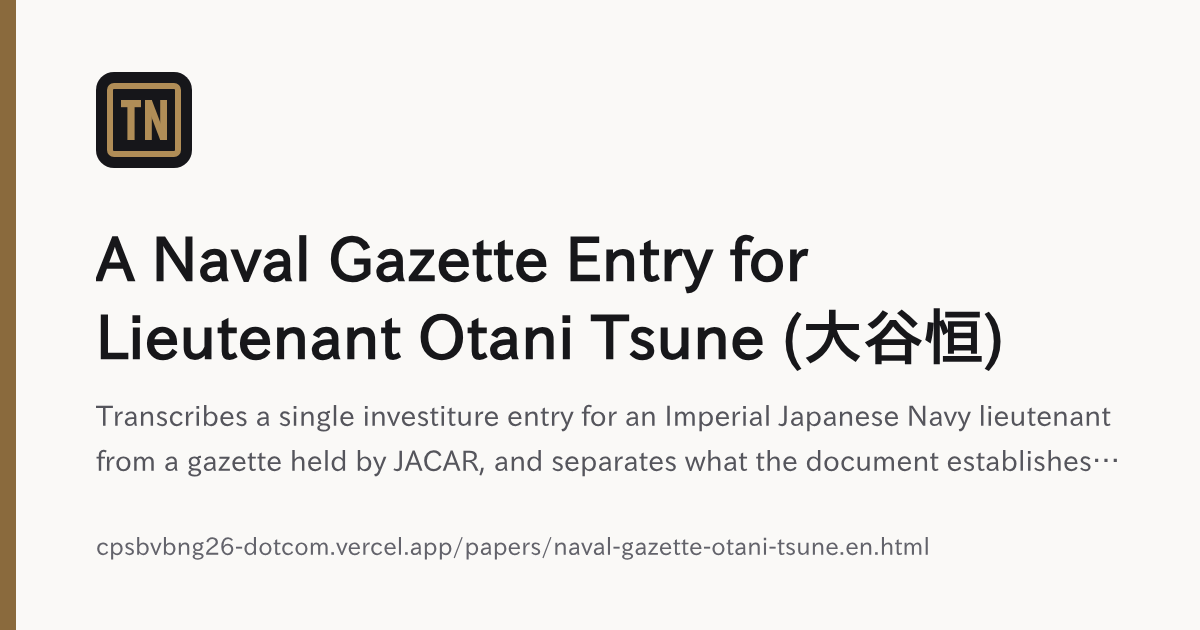
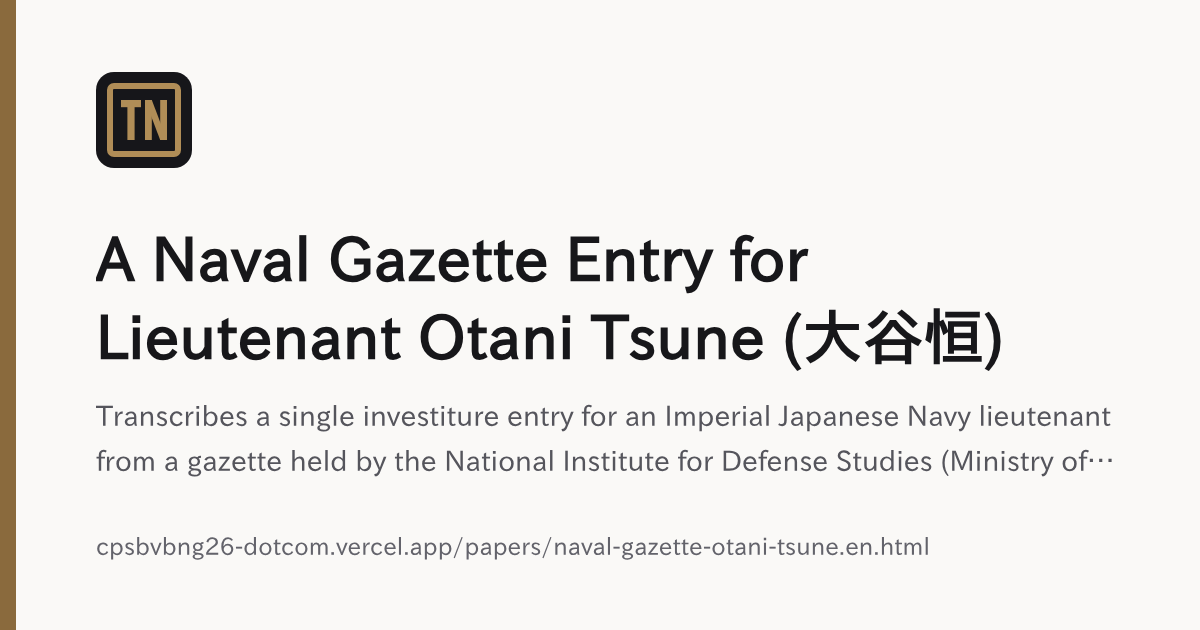
生成物：トップの頁、海軍公報の論文の頁二頁、ノートの英語の目次、共有カード一枚を作り直す
Claude-Session: https://claude.ai/code/session_01QqWsm63g52W27jU94E5dfL

Changed region(s): [[0.3083, 0.6937, 0.925, 0.754]]

diff --git a/index.html b/index.html
@@ -958,7 +958,7 @@ footer { border-top: 1px solid var(--line); margin-top: 2rem; }
       <p class="profile-now profile-cred">edX の修了証を、技術の目安として先に書きます。どれも入門の課程です。CS50x（HarvardX）は計算機科学の入門です。C・Python・SQL・Web の課題を全部出し、最終課題を作って修了しました。プログラムを一から書いて動かせる、という目安です。CS50AI（HarvardX）は Python による人工知能の入門です。探索・論理推論・確率・最適化・機械学習・ニューラルネットワーク・言語処理を、課題として実装しました。古典的な手法を自分で組める、という目安です。CC0201EN（IBM）は、コンテナ・Kubernetes・OpenShift の入門です。コンテナを作って動かす演習を含みます。ER22.1x（HarvardX）は政治哲学の講義 Justice で、技術の修了証ではありません。受講の規約も書いておきます。CS50 の二講座は、答えやコードを示したり補ったりする外部の生成系の道具（ChatGPT・Claude・Copilot・Gemini など）を使うことを、学業上の不正として禁じています。認められているのは、CS50 自身の道具（CS50 Duck）だけです。edX の Honor Code は、協働が明示的に認められていない限り、試験と課題を自分で仕上げることを求めています。規約を守ったことを、こちらから証明する手段はありません。ただし規約の上では、守ったものとして上の修了証が発行されています。</p>
       <p class="profile-now">ZEN大学 知能情報社会学部 知能情報社会学科に在籍しています（秋入学一期生）。文理を横断する課程です。あわせて、2024 年 10 月頃から、個人事業主として働いています。</p>
       <p class="profile-now profile-study">大学では主に<strong>哲学</strong>と<strong>実務</strong>を学んでいます。<strong>数学</strong>も履修できます。修得した科目は <a href="./cv.html">CV</a> に並べてあります。この場所に置いているのは、コンピュータサイエンスと人工知能の学習です。</p>
-      <p class="profile-core"><b>ここにあるものの根幹は、独学と、言語モデルを使って進めたことです。</b>指導教員も共同研究者もいません。<b>肩書きは名乗っていません。</b>一学部生です。<b>ただし、大学の単位は独学ではありません。</b>授業を受け、課題を出し、評価を受けて得たものです。下の表に並んでいるものがそれで、<b>独学と言語モデルの話は、その外にあります</b> —— 哲学の三篇と、<b>Trinity-Infinity の三篇</b>と、ここに置いた道具と記録のことです。</p><p class="profile-core"><b>この場所そのものは、Anthropic の Claude を使って作っています。</b>頁の生成、検査の道具、記録 —— git の履歴に <code translate="no" class="notranslate">Co-Authored-By: Claude Opus 5</code> が並んでいます。<b>ただし、哲学三篇の英訳に何を使ったかは特定できません</b> —— 記録が残っておらず、著者の記憶でも定まりません（三篇の正誤表 <a href="https://github.com/cpsbvbng26-dotcom/autonomy-and-self-cultivation/blob/main/ERRATA.md" target="_blank" rel="noopener">E5</a>）。<b>Trinity-Infinity の側は特定できます</b> —— 2025 年の初稿は言語モデル（ChatGPT / OpenAI）が生成し、2026 年の改訂は Claude Code（Anthropic）で書いています。哲学三篇の改訂と起草に Claude（Anthropic）を使ったことは、三篇それぞれの開示文にあります。<b>道具の名前を一つに絞れないのは、哲学三篇の英訳だけです。</b></p><p class="profile-core"><b>場の明文は、取り寄せた頁にある分を、場の言葉のまま置きます。</b><b>SSRN</b> —— 論文が学術的な内容の基準を満たすかどうかを、SSRN が決めます（<code translate="no" class="notranslate">SSRN must determine if a paper meets the criteria of scholarly content</code>）。SSRN は、プレプリントを査読しません（<code translate="no" class="notranslate">SSRN does not peer review preprints</code>）。非学術的なものは、投稿の要件を満たしません（<code translate="no" class="notranslate">Non-scholarly content does not meet our submission requirements</code>）。題・執筆日・要旨・全著者の情報が要ります。<b>PhilArchive</b> —— 学術哲学のすべての領域で、論文・書籍・学位論文を受け付けます（<code translate="no" class="notranslate">works of all types (articles, books, dissertations) in all areas of academic philosophy</code>）。哲学でないものは、<b>学際的で哲学者に明らかな関心がある場合に受け付けます</b>（<code translate="no" class="notranslate">cross-disciplinary and of clear interest to philosophers</code>）。投稿するすべての本と論文に、専門職の水準を求めています（<code translate="no" class="notranslate">All books and papers submitted should be of professional quality</code>）。脅迫・嫌がらせ、無断の個人情報、なりすましは禁じられています。<b>載る前に誰が何を確かめるかは、PhilArchive の取り寄せた頁のどれにも書かれていません。</b></p><p class="profile-core"><b>そこから言えることは、ここまでです。</b>独学と言語モデルで書いた哲学の二篇が、SSRN に載りました。SSRN は、学術的な内容の基準を満たすかを決めると書いています。載ったことは、その基準で落とされなかったということです。<b>誰がどこまで読んだかは、場の文からは分かりません。</b><b>そして、三篇目は落とされました。</b>断片主義的精神的個人主義（Fragmentarian Spiritual Individualism、<code translate="no" class="notranslate">10.5281/zenodo.22064241</code>）は SSRN に出して弾かれています。<b>この門は、実際に落とします。</b><b>どの分野に置いたかも決まっています</b> —— <b>通った哲学二篇</b>は哲学研究網（Philosophy Research Network）の<b>大陸哲学</b>（<code translate="no" class="notranslate">Continental Philosophy</code>）、Trinity-Infinity Series II は数学研究網（Mathematics Research Network）の<b>数値解析</b>（<code translate="no" class="notranslate">Numerical Analysis</code>）です。海軍公報の史料ノートも SSRN に受け付けられ、歴史研究網（History Research Network）の<b>東アジア史</b>（<code translate="no" class="notranslate">East Asian History</code>）に置かれています（SSRN 10.2139/ssrn.7449338）。科学哲学の論文 Machine-mediated Rediscovery も、SSRN に受け付けられています（SSRN 10.2139/ssrn.7537983）。SSRN では区分がそのまま eJournal になっています。<b>弾かれた一篇も同じ大陸哲学に出しています。受け付けられていないので、どの eJournal にも載っていません。</b><b>PhilArchive には三篇とも載っています。うち二篇は載る前に門が下り、一篇には下りていません。</b>門が何を確かめたかは、取り寄せた PhilArchive の頁のどれにも書かれていません。専門職の水準（<code translate="no" class="notranslate">professional quality</code>）は投稿する側への求めです。載ったことを、その水準の判定とは読みません。<b>数学の側でも同じことが起きています。Trinity-Infinity Series II が、SSRN に載りました</b>（SSRN <code translate="no" class="notranslate">10.2139/ssrn.7446961</code>）。<b>学術的な内容の基準で落とされなかった一篇です。</b><b>Series I の改訂版と Series III は、出して落とされました。</b>2026-09-18 に SSRN から二通が届いています。文面は定型で、<b>「投稿の要件を満たさないか、この場の範囲外である」</b>と書かれており、<b>どちらなのかは示されていません。</b><b>ここで確かなことが一つあります</b> —— 同じ数学研究網に Series II が載っているのだから、<b>数学が範囲外だということにはなりません。</b>落ちた二篇と通った一篇の違いは、まだ分かっていません。<b>つまり、この門は同じ系列の中でも選り分けます。</b>出した八篇のうち、受け付けられたのは五篇、落とされたのは三篇です。</p><p class="profile-core"><b>そこから導けないものも、はっきりしています。</b><b>論証が正しいことは、どちらの門も見ていません。</b>通ったのは受け付けの門であって査読ではなく、PhilArchive については三篇のうち二篇は門が下りており、一篇は下りていません。Series II も同じで、<b>SSRN が書いている基準は、学術的な内容かどうかと、要る情報が揃っているかです。</b><b>落とされたことも、通ったことの裏返しでしかありません。</b>弾かれた三篇について言えるのは、SSRN が受け付けなかったということだけで、<b>論証が誤っていると判定されたわけではありません。</b><b>場の側がそう書いています</b> —— 数学の二篇に届いた文面は、<code translate="no" class="notranslate">this decision does not reflect a judgement on the merits of your work</code> と述べています。断章論については理由が示されていません。数学の二篇には定型の文面が届きましたが、要件と範囲のどちらなのかは示されていません。<b>こちらも確かめていません。</b><b>明文は上に、場の側の言葉のまま置いてあります。</b></p><p class="profile-core"><b>数学の側について、一つ確定したことがあります。</b>Trinity-Infinity の三篇が扱う作用素 <code translate="no" class="notranslate">x ← DQx + (I−D)p</code> は、<b>既知の模型でした</b> —— 社会学の <b>Friedkin–Johnsen モデル</b>（1990 / 1999）です。意見動学の文献は、この領域で最も影響力のある模型として <b>DeGroot と Friedkin–Johnsen の二つを並べて挙げる</b>のが通例です。Friedkin–Johnsen モデルは 2011 年に Cambridge から単著の理論書になり、2016 年に <i>Science</i> に載り、いまは制御理論と計算機科学でも使われています。<b>脚注ではなく、その分野の二本柱の一本でした。</b>そして Series I は、自分の第 1 節で <code translate="no" class="notranslate">consensus dynamics</code> と名指ししたうえで、その分野を一件も引いていません（<a href="https://github.com/cpsbvbng26-dotcom/trinity-infinity/blob/main/ERRATA.md" target="_blank" rel="noopener">ERRATA の E8</a>、重大度・高）。<b>ただし寸法は正確に書きます。</b>この作用素は影響行列 <code translate="no" class="notranslate">W</code> を巡回置換に限った特殊例で、それは<b>各主体がちょうど一人の隣人だけを聴く輪</b>です。誰が誰にどれだけ影響するかという一般の <code translate="no" class="notranslate">W</code> —— Friedkin–Johnsen を社会学たらしめている当のもの —— を全部落としています。<b>再発見したのは、一級の社会学モデルの、社会学を抜いた数学的な躯体と、要の一項です。</b></p><p class="profile-core"><b>その先で、一つ足したものがあります。</b>これは学部一年次の成果（Trinity-Infinity）の続きです。2026-10-04 に、同じ作用素が繰り返しゲームの均衡を決めることを、ノートに書きました（<a href="https://github.com/cpsbvbng26-dotcom/trinity-operator/tree/main/games" target="_blank" rel="noopener">trinity-operator の games</a>）。協力が巡回する道の継続価値は、この作用素の不動点になります。式そのものは教科書の公式です。そこから閾値を証明しました。三人で裏切り役を回す道は、割引因子が <code translate="no" class="notranslate">1/φ</code> 以上のときに限って均衡になります。Series II の例 <code translate="no" class="notranslate">(2,4,2)</code> が、どの割引因子でも持続しないことも示しました。<b>ただし、命題は文献と照合していません。</b>既知の演習である可能性があり、照合するまで新しい結果とは数えません。乱数を使わないときに持続できる利得の集合が穴だらけになる、という<b>予想</b>も置きました。名前は<b>黄金比の窓の予想</b>（Golden-window conjecture）で、窓は割引因子の <code translate="no" class="notranslate">1/φ</code> から <code translate="no" class="notranslate">2/3</code> までを指します。人名ではなく、中身を表す名です。予想と、窓の外で証明したことは、<a href="./notes/golden-window.html">独立した頁</a>にまとめました。予想には証明が無く、根拠は数値だけです。<b>既知の模型と、証明した命題と、予想を、分けて書いています。</b></p><p class="profile-core"><b>ここまでのプレプリントは、趣味として書いたものです。</b>どれも査読を受けていません。<b>これは謙遜ではありません。</b>上に並べたことからの帰結です —— 受け付けの門は通りましたが、論証を見た者はいません。数学の三篇は既知の模型の特殊例で、分野への寄与はゼロです。<b>趣味の研究は、学部一年で卒業しました。</b>これからのものは、趣味と呼ばずに済む形で書きます。</p><p class="profile-core"><b>edX と東北大学 MOOC の修了証も、学部一年の前半で得ています。</b>七件あります。<b>そして、次の四つは学部一年時の実績です。</b>八篇のプレプリント、Zenodo の 15 件、十のリポジトリ、修了証とオープンバッジの七件。「30歳魔法使い」都市伝説の構造分析（2026-10-03 公開）は、学部二年次のものです。独身論の続き（貞潔の話の延長）にあたり、この四つには数えていません。<b>Sophaxis と deposit-check は、学部二年次に始めたものです。</b>最初のコミットは 2026-10-30 と 2026-11-02 です。新しい主題は JOSS などの経路で進めると決めてあり、二つとも道具として JOSS に出します。<b>日付そのものは突き合わせていません。</b>修了証に印字されてはいますが、この作業環境から edX にも発行機関にも届きません。<b>在籍の開始日も、ここには書きません。</b>書けば、確かめていない日付を印字することになります。</p><p class="profile-core"><b>出す先も決めてあります。</b>独学で進めたものは、<b>ダイヤモンド・オープンアクセスの場にしか出しません</b> —— 読む側からも書く側からも金を取らない場です。掲載料・投稿料を取る場には出しません。<b>そして、無償を謳う勧誘にも応じません</b> —— <b>費用が掛かる時点で、通ったのは選別ではなく支払いです。</b>この規則は、すでに一度使っています。出版社から書籍化の勧誘が届き、<b>返信していません</b>（<a href="https://github.com/cpsbvbng26-dotcom/cpsbvbng26-dotcom/blob/main/docs/external-evaluations.md" target="_blank" rel="noopener">受けた勧誘</a>）。<b>相手を評価したのではありません</b> —— 実在も実績も査読の有無も確かめていません。<b>決めたのは、自分の側の規則です。</b></p><p class="profile-core"><b>載ったものをどの枠で数えるかも決めてあります。</b>researchmap と HAL の論文の枠に入れるのは、学位論文と、分野の区分で Q1 の誌、分野のダイヤモンド・オープンアクセスの査読誌に載ったものだけです。<b>ほかは全部、ワーキングペーパー・プレプリント・MISC として扱います。</b>その枠に入れる下限は、SSRN・PhilPapers・arXiv のどれかに載っていることです。<b>Zenodo にしか無いものは、どちらの枠にも入れません。</b>Zenodo は、それらのスクリーニングを通らなかったものを、研究の透明性のために置いておく場として扱います。引用に使う正の DOI が Zenodo であることは変わりません。SSRN に載ったものも、論文の枠の外にあります。<b>いま論文の枠に入るものは一つもありません。</b>出す先の決めは上の段のまま変えません。この段が決めるのは、載ったものの数え方だけです。</p><p class="profile-core"><b>「目標」の二つとは別に、定期的な目標があります。</b><b>Journal of Open Source Software</b>（JOSS。ISSN <code translate="no" class="notranslate">2475-9066</code>）に通すことです。<b>一度通れば終わりにはしません。</b>しばらくは、これを繰り返す目標として置きます。<b>掲載料も投稿料も取らない場です</b> —— 決めごと 14 が許す側に当たります。<b>通れば Crossref の DOI が付きます。</b>接頭辞は <code translate="no" class="notranslate">10.21105</code> で、<code translate="no" class="notranslate">10.21105/joss.03021</code> のような形になります。<b>明文の条件は、場の言葉のまま次のとおりです。</b><code translate="no" class="notranslate">The software must be open source as per the OSI definition</code>。<code translate="no" class="notranslate">there should be an actual license file present in the repository not just a reference to the license</code>。<code translate="no" class="notranslate">The software must be hosted at a location where users can browse the source code files, open issues, and propose code changes without manual approval of (or payment for) accounts</code>。<code translate="no" class="notranslate">The software must have an obvious research application</code>。<code translate="no" class="notranslate">You must be a major contributor to the software you are submitting</code>。<code translate="no" class="notranslate">feature-complete (i.e., no half-baked solutions)</code>。<b>査読の前に四つの門があります。一つでも欠ければ、査読に入らずに返されます</b>（<code translate="no" class="notranslate">will receive a desk rejection</code>）。<b>一つ目、公開の期間。</b><code translate="no" class="notranslate">The repository must have been public for more than six months prior to submission, with active development spanning that period</code>。<b>二つ目、研究に使われている証拠。</b><code translate="no" class="notranslate">There must be evidence that the software is being used for research</code>。そして <code translate="no" class="notranslate">Aspirational statements about future use are not sufficient</code> —— <b>これから使われるという言明では足りません。</b><b>三つ目、開かれた開発の実践。</b>単独の著者なら、公開された履歴・タグ付きの版または変更履歴・試験と CI・文書・CONTRIBUTING・支援の方針が、複数そろっていること。<b>四つ目、反復した開発。</b><code translate="no" class="notranslate">The development history must show ongoing iteration, not a single burst of commits</code>。<b>届く日付は決まっています。</b>ここの十で最も早い最初のコミットは <b>2026-06-12</b> で、これはこの場所そのものです。道具の側は、いちばん早いもので <b>2026-09-05</b> です。六か月の条件から逆算すると、最短で <b>2026-12-13</b>、道具の側は <b>2027-03-06</b> になります。出すもののうち、errata-check は、最初のコミットが <b>2026-09-07</b>、最短が <b>2027-03-08</b> です。作業が数週間に集中している点は、待つだけでは埋まりません。使いながら手を入れ続けた跡が要ります。<b>出すのはその先です。</b><b>この場は言語モデルの使用の開示も求めています</b>（<code translate="no" class="notranslate">AI usage disclosure</code>）—— 道具と版、使った場所、そして人が検証したことを書かせます。<b>決めごと 8 が、同じことを先に決めています。</b><b>出すのは errata-check・Sophaxis・deposit-check の三本です。</b>errata-check は、Sophaxis のコードと一緒に出します。出すのは 2027 年 5 月以降です。2026-11-01 に Sophaxis を、2026-11-02 に deposit-check を足しました。Sophaxis は、哲学と数学のためのオーバーレイ型のプレプリントサーバーで、ここの十の外にあります。最初のコミットは <b>2026-10-30</b>、最短は <b>2027-05-01</b> です。プレプリントサーバーが JOSS の範囲に入るかどうかは、JOSS が決めます。deposit-check は、研究者の業績の DOI の登録情報を ORCID の記録と突き合わせて点検する道具で、これも十の外にあります。最初のコミットは <b>2026-11-02</b>、最短は <b>2027-05-03</b> です。ほかは、論文・史料ノート・覚書か、JOSS の範囲に届かないと見ている道具です。どれがどの門に届いていないかは、<a href="https://github.com/cpsbvbng26-dotcom/cpsbvbng26-dotcom/blob/main/docs/joss.md" target="_blank" rel="noopener">十の状態</a>に一つずつ並べてあります。<b>明文は <code translate="no" class="notranslate">openjournals/joss</code> の <code translate="no" class="notranslate">docs/</code> から写しました。リンクと強調の記法だけ外してあります。</b></p><p class="profile-core"><b>そして、論文の側も出します。</b>哲学三篇も Trinity-Infinity の三篇も、<b>ダイヤモンド・オープンアクセスの査読誌に出します。</b>2026-09-15 に決めを変えました。<b>それまでは出さないと決めていました。</b>理由は費用ではなく、言語モデルの使用を完全には開示できないことでした。<b>哲学三篇は、翻訳に用いた道具を特定できません</b> —— 記録が残っておらず、著者の記憶でも定まりません（<a href="https://github.com/cpsbvbng26-dotcom/autonomy-and-self-cultivation/blob/main/ERRATA.md" target="_blank" rel="noopener">ERRATA の E5</a>）。<b>変えた理由は一点です。</b>「何を使ったか再構成できない」と書くことは、分かっていることの全部を書くことです。<b>不完全なのは開示ではなく、開示できる材料のほうです。</b>受け付けるかどうかは場の判断であって、こちらで先回りして落とすものではありません。<b>COPE に沿う場の定めは守ります</b> —— 言語モデルを著作者に並べません。使用は開示します。<b>プレプリントは動かしません。</b>Zenodo と PhilArchive と SSRN に置いたままにします。<b>取り下げるのではありません。</b>査読誌に出すこととは別です。<b>道具の側は、git の履歴が commit ごとに開示を裏づけます。</b><b>丸を付けない欄が一つあります</b> —— 「文章は実質的に著者自身のものである」という申告には、丸を付けません。開示を求める場と、著者自身の筆であることを申告させる場は、別です（<a href="https://github.com/cpsbvbng26-dotcom/cpsbvbng26-dotcom/blob/main/docs/joss.md" target="_blank" rel="noopener">十の状態</a>）。</p><p class="profile-core"><b>向きを一つ変えました。</b>2026-09-23 に決めました。<b>これからは、制度のなかで成果を出すことに注力します。</b>学会で発表すること、そこで賞を受けることです。<b>どちらもまだ一件もありません。</b>ここまでにあるのは、受け付けの門を通ったプレプリントと、置き場の控えだけです。<b>その二つは、査読を通った実績ではありません。</b>JOSS を定期的な目標に置いたのも、同じ向きからです。</p><p class="profile-core"><b>先の見通しも書いておきます。</b><b>次の二つ以外は眼中にありません。</b>博士号を取ったのち独立研究者として活動すること、個人事業主として質を重視した案件のみを受注して生計を立てること。<b>学会と賞は、その一つ目に向かう途上にあります。</b>目標が三つに増えたのではありません。博士号もまた、本質的に非再生産です。本人の業績にだけ与えられ、譲ることも継がせることもできません。<b>そして、他者と接する機会を極限まで削った状態で生きることになるでしょう。</b><b>この暮らし方は、書いたものと同じ向きを向いています。</b>独身者の模範性と貴族性が擁護したのは、まさにその型です —— 他者にも欲望の周期にも依存しない幸福（同論文の C2）。<b>ただし、その型が実際に取れるかどうかは、まだ確かめられていません。</b>C2 は未読の典拠二つに乗っており（<a href="https://github.com/cpsbvbng26-dotcom/autonomy-and-self-cultivation/blob/main/ERRATA.md" target="_blank" rel="noopener">ERRATA の E6</a>、重大度・高）、孤立の統計は、取れるかどうかを問う側に向かっています。<b>暮らし方が主張の裏付けになるわけではありません。</b>順序は逆で、<b>主張のほうが、まだ足で立っていません。</b></p><p class="profile-core">死後に残すもの（墓と諡名、学位、ORCID と DOI）の話は、研究とは別のことなので、<a href="./notes/afterlife.html">別の頁</a>に分けました。</p>
+      <p class="profile-core"><b>ここにあるものの根幹は、独学と、言語モデルを使って進めたことです。</b>指導教員も共同研究者もいません。<b>肩書きは名乗っていません。</b>一学部生です。<b>ただし、大学の単位は独学ではありません。</b>授業を受け、課題を出し、評価を受けて得たものです。下の表に並んでいるものがそれで、<b>独学と言語モデルの話は、その外にあります</b> —— 哲学の三篇と、<b>Trinity-Infinity の三篇</b>と、ここに置いた道具と記録のことです。</p><p class="profile-core"><b>この場所そのものは、Anthropic の Claude を使って作っています。</b>頁の生成、検査の道具、記録 —— git の履歴に <code translate="no" class="notranslate">Co-Authored-By: Claude Opus 5</code> が並んでいます。<b>ただし、哲学三篇の英訳に何を使ったかは特定できません</b> —— 記録が残っておらず、著者の記憶でも定まりません（三篇の正誤表 <a href="https://github.com/cpsbvbng26-dotcom/autonomy-and-self-cultivation/blob/main/ERRATA.md" target="_blank" rel="noopener">E5</a>）。<b>Trinity-Infinity の側は特定できます</b> —— 2025 年の初稿は言語モデル（ChatGPT / OpenAI）が生成し、2026 年の改訂は Claude Code（Anthropic）で書いています。哲学三篇の改訂と起草に Claude（Anthropic）を使ったことは、三篇それぞれの開示文にあります。<b>道具の名前を一つに絞れないのは、哲学三篇の英訳だけです。</b></p><p class="profile-core"><b>場の明文は、取り寄せた頁にある分を、場の言葉のまま置きます。</b><b>SSRN</b> —— 論文が学術的な内容の基準を満たすかどうかを、SSRN が決めます（<code translate="no" class="notranslate">SSRN must determine if a paper meets the criteria of scholarly content</code>）。SSRN は、プレプリントを査読しません（<code translate="no" class="notranslate">SSRN does not peer review preprints</code>）。非学術的なものは、投稿の要件を満たしません（<code translate="no" class="notranslate">Non-scholarly content does not meet our submission requirements</code>）。題・執筆日・要旨・全著者の情報が要ります。<b>PhilArchive</b> —— 学術哲学のすべての領域で、論文・書籍・学位論文を受け付けます（<code translate="no" class="notranslate">works of all types (articles, books, dissertations) in all areas of academic philosophy</code>）。哲学でないものは、<b>学際的で哲学者に明らかな関心がある場合に受け付けます</b>（<code translate="no" class="notranslate">cross-disciplinary and of clear interest to philosophers</code>）。投稿するすべての本と論文に、専門職の水準を求めています（<code translate="no" class="notranslate">All books and papers submitted should be of professional quality</code>）。脅迫・嫌がらせ、無断の個人情報、なりすましは禁じられています。<b>載る前に誰が何を確かめるかは、PhilArchive の取り寄せた頁のどれにも書かれていません。</b></p><p class="profile-core"><b>そこから言えることは、ここまでです。</b>独学と言語モデルで書いた哲学の二篇が、SSRN に載りました。SSRN は、学術的な内容の基準を満たすかを決めると書いています。載ったことは、その基準で落とされなかったということです。<b>誰がどこまで読んだかは、場の文からは分かりません。</b><b>そして、三篇目は落とされました。</b>断片主義的精神的個人主義（Fragmentarian Spiritual Individualism、<code translate="no" class="notranslate">10.5281/zenodo.22064241</code>）は SSRN に出して弾かれています。<b>この門は、実際に落とします。</b><b>どの分野に置いたかも決まっています</b> —— <b>通った哲学二篇</b>は哲学研究網（Philosophy Research Network）の<b>大陸哲学</b>（<code translate="no" class="notranslate">Continental Philosophy</code>）、Trinity-Infinity Series II は数学研究網（Mathematics Research Network）の<b>数値解析</b>（<code translate="no" class="notranslate">Numerical Analysis</code>）です。海軍公報の史料ノートも SSRN に受け付けられ、歴史研究網（History Research Network）の<b>東アジア史</b>（<code translate="no" class="notranslate">East Asian History</code>）に置かれています（SSRN 10.2139/ssrn.7449338）。科学哲学の論文 Machine-mediated Rediscovery も、SSRN に受け付けられています（SSRN 10.2139/ssrn.7537983）。SSRN では区分がそのまま eJournal になっています。<b>弾かれた一篇も同じ大陸哲学に出しています。受け付けられていないので、どの eJournal にも載っていません。</b><b>PhilArchive には三篇とも載っています。うち二篇は載る前に門が下り、一篇には下りていません。</b>門が何を確かめたかは、取り寄せた PhilArchive の頁のどれにも書かれていません。専門職の水準（<code translate="no" class="notranslate">professional quality</code>）は投稿する側への求めです。載ったことを、その水準の判定とは読みません。<b>数学の側でも同じことが起きています。Trinity-Infinity Series II が、SSRN に載りました</b>（SSRN <code translate="no" class="notranslate">10.2139/ssrn.7446961</code>）。<b>学術的な内容の基準で落とされなかった一篇です。</b><b>Series I の改訂版と Series III は、出して落とされました。</b>2026-09-18 に SSRN から二通が届いています。文面は定型で、<b>「投稿の要件を満たさないか、この場の範囲外である」</b>と書かれており、<b>どちらなのかは示されていません。</b><b>ここで確かなことが一つあります</b> —— 同じ数学研究網に Series II が載っているのだから、<b>数学が範囲外だということにはなりません。</b>落ちた二篇と通った一篇の違いは、まだ分かっていません。<b>つまり、この門は同じ系列の中でも選り分けます。</b>出した八篇のうち、受け付けられたのは五篇、落とされたのは三篇です。</p><p class="profile-core"><b>そこから導けないものも、はっきりしています。</b><b>論証が正しいことは、どちらの門も見ていません。</b>通ったのは受け付けの門であって査読ではなく、PhilArchive については三篇のうち二篇は門が下りており、一篇は下りていません。Series II も同じで、<b>SSRN が書いている基準は、学術的な内容かどうかと、要る情報が揃っているかです。</b><b>落とされたことも、通ったことの裏返しでしかありません。</b>弾かれた三篇について言えるのは、SSRN が受け付けなかったということだけで、<b>論証が誤っていると判定されたわけではありません。</b><b>場の側がそう書いています</b> —— 数学の二篇に届いた文面は、<code translate="no" class="notranslate">this decision does not reflect a judgement on the merits of your work</code> と述べています。断章論については理由が示されていません。数学の二篇には定型の文面が届きましたが、要件と範囲のどちらなのかは示されていません。<b>こちらも確かめていません。</b><b>明文は上に、場の側の言葉のまま置いてあります。</b></p><p class="profile-core"><b>数学の側について、一つ確定したことがあります。</b>Trinity-Infinity の三篇が扱う作用素 <code translate="no" class="notranslate">x ← DQx + (I−D)p</code> は、<b>既知の模型でした</b> —— 社会学の <b>Friedkin–Johnsen モデル</b>（1990 / 1999）です。意見動学の文献は、この領域で最も影響力のある模型として <b>DeGroot と Friedkin–Johnsen の二つを並べて挙げる</b>のが通例です。Friedkin–Johnsen モデルは 2011 年に Cambridge から Friedkin と Johnsen の共著の理論書になり、2016 年に <i>Science</i> に載り、いまは制御理論と計算機科学でも使われています。<b>脚注ではなく、その分野の二本柱の一本でした。</b>そして Series I は、自分の第 1 節で <code translate="no" class="notranslate">consensus dynamics</code> と名指ししたうえで、その分野を一件も引いていません（<a href="https://github.com/cpsbvbng26-dotcom/trinity-infinity/blob/main/ERRATA.md" target="_blank" rel="noopener">ERRATA の E8</a>、重大度・高）。<b>ただし寸法は正確に書きます。</b>この作用素は影響行列 <code translate="no" class="notranslate">W</code> を巡回置換に限った特殊例で、それは<b>各主体がちょうど一人の隣人だけを聴く輪</b>です。誰が誰にどれだけ影響するかという一般の <code translate="no" class="notranslate">W</code> —— Friedkin–Johnsen を社会学たらしめている当のもの —— を全部落としています。<b>再発見したのは、一級の社会学モデルの、社会学を抜いた数学的な躯体と、要の一項です。</b></p><p class="profile-core"><b>その先で、一つ足したものがあります。</b>これは学部一年次の成果（Trinity-Infinity）の続きです。2026-10-04 に、同じ作用素が繰り返しゲームの均衡を決めることを、ノートに書きました（<a href="https://github.com/cpsbvbng26-dotcom/trinity-operator/tree/main/games" target="_blank" rel="noopener">trinity-operator の games</a>）。協力が巡回する道の継続価値は、この作用素の不動点になります。式そのものは教科書の公式です。そこから閾値を証明しました。三人で裏切り役を回す道は、割引因子が <code translate="no" class="notranslate">1/φ</code> 以上のときに限って均衡になります。Series II の例 <code translate="no" class="notranslate">(2,4,2)</code> が、どの割引因子でも持続しないことも示しました。<b>ただし、命題は文献と照合していません。</b>既知の演習である可能性があり、照合するまで新しい結果とは数えません。乱数を使わないときに持続できる利得の集合が穴だらけになる、という<b>予想</b>も置きました。名前は<b>黄金比の窓の予想</b>（Golden-window conjecture）で、窓は割引因子の <code translate="no" class="notranslate">1/φ</code> から <code translate="no" class="notranslate">2/3</code> までを指します。人名ではなく、中身を表す名です。予想と、窓の外で証明したことは、<a href="./notes/golden-window.html">独立した頁</a>にまとめました。予想には証明が無く、根拠は数値だけです。<b>既知の模型と、証明した命題と、予想を、分けて書いています。</b></p><p class="profile-core"><b>ここまでのプレプリントは、趣味として書いたものです。</b>どれも査読を受けていません。<b>これは謙遜ではありません。</b>上に並べたことからの帰結です —— 受け付けの門は通りましたが、論証を見た者はいません。数学の三篇は既知の模型の特殊例で、分野への寄与はゼロです。<b>趣味の研究は、学部一年で卒業しました。</b>これからのものは、趣味と呼ばずに済む形で書きます。</p><p class="profile-core"><b>edX と東北大学 MOOC の修了証も、学部一年の前半で得ています。</b>七件あります。<b>そして、次の四つは学部一年時の実績です。</b>八篇のプレプリント、Zenodo の 15 件、十のリポジトリ、修了証とオープンバッジの七件。「30歳魔法使い」都市伝説の構造分析（2026-10-03 公開）は、学部二年次のものです。独身論の続き（貞潔の話の延長）にあたり、この四つには数えていません。<b>Sophaxis と deposit-check は、学部二年次に始めたものです。</b>最初のコミットは 2026-10-30 と 2026-11-02 です。新しい主題は JOSS などの経路で進めると決めてあり、二つとも道具として JOSS に出します。<b>日付そのものは突き合わせていません。</b>修了証に印字されてはいますが、この作業環境から edX にも発行機関にも届きません。<b>在籍の開始日も、ここには書きません。</b>書けば、確かめていない日付を印字することになります。</p><p class="profile-core"><b>出す先も決めてあります。</b>独学で進めたものは、<b>ダイヤモンド・オープンアクセスの場にしか出しません</b> —— 読む側からも書く側からも金を取らない場です。掲載料・投稿料を取る場には出しません。<b>そして、無償を謳う勧誘にも応じません</b> —— <b>費用が掛かる時点で、通ったのは選別ではなく支払いです。</b>この規則は、すでに一度使っています。出版社から書籍化の勧誘が届き、<b>返信していません</b>（<a href="https://github.com/cpsbvbng26-dotcom/cpsbvbng26-dotcom/blob/main/docs/external-evaluations.md" target="_blank" rel="noopener">受けた勧誘</a>）。<b>相手を評価したのではありません</b> —— 実在も実績も査読の有無も確かめていません。<b>決めたのは、自分の側の規則です。</b></p><p class="profile-core"><b>載ったものをどの枠で数えるかも決めてあります。</b>researchmap と HAL の論文の枠に入れるのは、学位論文と、分野の区分で Q1 の誌、分野のダイヤモンド・オープンアクセスの査読誌に載ったものだけです。<b>ほかは全部、ワーキングペーパー・プレプリント・MISC として扱います。</b>その枠に入れる下限は、SSRN・PhilPapers・arXiv のどれかに載っていることです。<b>Zenodo にしか無いものは、どちらの枠にも入れません。</b>Zenodo は、それらのスクリーニングを通らなかったものを、研究の透明性のために置いておく場として扱います。引用に使う正の DOI が Zenodo であることは変わりません。SSRN に載ったものも、論文の枠の外にあります。<b>いま論文の枠に入るものは一つもありません。</b>出す先の決めは上の段のまま変えません。この段が決めるのは、載ったものの数え方だけです。</p><p class="profile-core"><b>「目標」の二つとは別に、定期的な目標があります。</b><b>Journal of Open Source Software</b>（JOSS。ISSN <code translate="no" class="notranslate">2475-9066</code>）に通すことです。<b>一度通れば終わりにはしません。</b>しばらくは、これを繰り返す目標として置きます。<b>掲載料も投稿料も取らない場です</b> —— 決めごと 14 が許す側に当たります。<b>通れば Crossref の DOI が付きます。</b>接頭辞は <code translate="no" class="notranslate">10.21105</code> で、<code translate="no" class="notranslate">10.21105/joss.03021</code> のような形になります。<b>明文の条件は、場の言葉のまま次のとおりです。</b><code translate="no" class="notranslate">The software must be open source as per the OSI definition</code>。<code translate="no" class="notranslate">there should be an actual license file present in the repository not just a reference to the license</code>。<code translate="no" class="notranslate">The software must be hosted at a location where users can browse the source code files, open issues, and propose code changes without manual approval of (or payment for) accounts</code>。<code translate="no" class="notranslate">The software must have an obvious research application</code>。<code translate="no" class="notranslate">You must be a major contributor to the software you are submitting</code>。<code translate="no" class="notranslate">feature-complete (i.e., no half-baked solutions)</code>。<b>査読の前に四つの門があります。一つでも欠ければ、査読に入らずに返されます</b>（<code translate="no" class="notranslate">will receive a desk rejection</code>）。<b>一つ目、公開の期間。</b><code translate="no" class="notranslate">The repository must have been public for more than six months prior to submission, with active development spanning that period</code>。<b>二つ目、研究に使われている証拠。</b><code translate="no" class="notranslate">There must be evidence that the software is being used for research</code>。そして <code translate="no" class="notranslate">Aspirational statements about future use are not sufficient</code> —— <b>これから使われるという言明では足りません。</b><b>三つ目、開かれた開発の実践。</b>単独の著者なら、公開された履歴・タグ付きの版または変更履歴・試験と CI・文書・CONTRIBUTING・支援の方針が、複数そろっていること。<b>四つ目、反復した開発。</b><code translate="no" class="notranslate">The development history must show ongoing iteration, not a single burst of commits</code>。<b>届く日付は決まっています。</b>ここの十で最も早い最初のコミットは <b>2026-06-12</b> で、これはこの場所そのものです。道具の側は、いちばん早いもので <b>2026-09-05</b> です。六か月の条件から逆算すると、最短で <b>2026-12-13</b>、道具の側は <b>2027-03-06</b> になります。出すもののうち、errata-check は、最初のコミットが <b>2026-09-07</b>、最短が <b>2027-03-08</b> です。作業が数週間に集中している点は、待つだけでは埋まりません。使いながら手を入れ続けた跡が要ります。<b>出すのはその先です。</b><b>この場は言語モデルの使用の開示も求めています</b>（<code translate="no" class="notranslate">AI usage disclosure</code>）—— 道具と版、使った場所、そして人が検証したことを書かせます。<b>決めごと 8 が、同じことを先に決めています。</b><b>出すのは errata-check・Sophaxis・deposit-check の三本です。</b>errata-check は、Sophaxis のコードと一緒に出します。出すのは 2027 年 5 月以降です。2026-11-01 に Sophaxis を、2026-11-02 に deposit-check を足しました。Sophaxis は、哲学と数学のためのオーバーレイ型のプレプリントサーバーで、ここの十の外にあります。最初のコミットは <b>2026-10-30</b>、最短は <b>2027-05-01</b> です。プレプリントサーバーが JOSS の範囲に入るかどうかは、JOSS が決めます。deposit-check は、研究者の業績の DOI の登録情報を ORCID の記録と突き合わせて点検する道具で、これも十の外にあります。最初のコミットは <b>2026-11-02</b>、最短は <b>2027-05-03</b> です。ほかは、論文・史料ノート・覚書か、JOSS の範囲に届かないと見ている道具です。どれがどの門に届いていないかは、<a href="https://github.com/cpsbvbng26-dotcom/cpsbvbng26-dotcom/blob/main/docs/joss.md" target="_blank" rel="noopener">十の状態</a>に一つずつ並べてあります。<b>明文は <code translate="no" class="notranslate">openjournals/joss</code> の <code translate="no" class="notranslate">docs/</code> から写しました。リンクと強調の記法だけ外してあります。</b></p><p class="profile-core"><b>そして、論文の側も出します。</b>哲学三篇も Trinity-Infinity の三篇も、<b>ダイヤモンド・オープンアクセスの査読誌に出します。</b>2026-09-15 に決めを変えました。<b>それまでは出さないと決めていました。</b>理由は費用ではなく、言語モデルの使用を完全には開示できないことでした。<b>哲学三篇は、翻訳に用いた道具を特定できません</b> —— 記録が残っておらず、著者の記憶でも定まりません（<a href="https://github.com/cpsbvbng26-dotcom/autonomy-and-self-cultivation/blob/main/ERRATA.md" target="_blank" rel="noopener">ERRATA の E5</a>）。<b>変えた理由は一点です。</b>「何を使ったか再構成できない」と書くことは、分かっていることの全部を書くことです。<b>不完全なのは開示ではなく、開示できる材料のほうです。</b>受け付けるかどうかは場の判断であって、こちらで先回りして落とすものではありません。<b>COPE に沿う場の定めは守ります</b> —— 言語モデルを著作者に並べません。使用は開示します。<b>プレプリントは動かしません。</b>Zenodo と PhilArchive と SSRN に置いたままにします。<b>取り下げるのではありません。</b>査読誌に出すこととは別です。<b>道具の側は、git の履歴が commit ごとに開示を裏づけます。</b><b>丸を付けない欄が一つあります</b> —— 「文章は実質的に著者自身のものである」という申告には、丸を付けません。開示を求める場と、著者自身の筆であることを申告させる場は、別です（<a href="https://github.com/cpsbvbng26-dotcom/cpsbvbng26-dotcom/blob/main/docs/joss.md" target="_blank" rel="noopener">十の状態</a>）。</p><p class="profile-core"><b>向きを一つ変えました。</b>2026-09-23 に決めました。<b>これからは、制度のなかで成果を出すことに注力します。</b>学会で発表すること、そこで賞を受けることです。<b>どちらもまだ一件もありません。</b>ここまでにあるのは、受け付けの門を通ったプレプリントと、置き場の控えだけです。<b>その二つは、査読を通った実績ではありません。</b>JOSS を定期的な目標に置いたのも、同じ向きからです。</p><p class="profile-core"><b>先の見通しも書いておきます。</b><b>次の二つ以外は眼中にありません。</b>博士号を取ったのち独立研究者として活動すること、個人事業主として質を重視した案件のみを受注して生計を立てること。<b>学会と賞は、その一つ目に向かう途上にあります。</b>目標が三つに増えたのではありません。博士号もまた、本質的に非再生産です。本人の業績にだけ与えられ、譲ることも継がせることもできません。<b>そして、他者と接する機会を極限まで削った状態で生きることになるでしょう。</b><b>この暮らし方は、書いたものと同じ向きを向いています。</b>独身者の模範性と貴族性が擁護したのは、まさにその型です —— 他者にも欲望の周期にも依存しない幸福（同論文の C2）。<b>ただし、その型が実際に取れるかどうかは、まだ確かめられていません。</b>C2 は未読の典拠二つに乗っており（<a href="https://github.com/cpsbvbng26-dotcom/autonomy-and-self-cultivation/blob/main/ERRATA.md" target="_blank" rel="noopener">ERRATA の E6</a>、重大度・高）、孤立の統計は、取れるかどうかを問う側に向かっています。<b>暮らし方が主張の裏付けになるわけではありません。</b>順序は逆で、<b>主張のほうが、まだ足で立っていません。</b></p><p class="profile-core">死後に残すもの（墓と諡名、学位、ORCID と DOI）の話は、研究とは別のことなので、<a href="./notes/afterlife.html">別の頁</a>に分けました。</p>
       <ol class="path">
       <li><span class="path-name">栃木県立栃木高等学校（120 期）</span><span class="path-state">中途退学</span></li>
       <li><span class="path-name">駿台予備学校 大宮校 高卒クラス</span><span class="path-state">在籍歴有り</span></li>

diff --git a/papers/naval-gazette-otani-tsune.en.html b/papers/naval-gazette-otani-tsune.en.html
@@ -3,12 +3,12 @@
 <head>
 <meta charset="UTF-8">
 <meta name="viewport" content="width=device-width, initial-scale=1.0">
-<meta http-equiv="Content-Security-Policy" content="default-src 'none'; script-src 'self' 'sha256-+RcYVFy4a44Y7YrbiWUktePl0wpvt4LmJlM2h48gcOw=' 'sha256-tHd4qJ0R/vQfI0CbRTiL3XGSi+Tun7VhOcDbx08aLKA=' 'sha256-xEIumBm9hib706cHxKRcWJ5xUwqNwJIdRC/4mVeA9hE='; style-src 'sha256-r/Q5i2Sd5QikgAA6/nyuQri8Ama1Vtf9O7bac1yrHdQ='; img-src 'self' data:; connect-src 'none'; form-action 'none'; base-uri 'none'">
+<meta http-equiv="Content-Security-Policy" content="default-src 'none'; script-src 'self' 'sha256-nN6Buf6PChnZp3B3YXISZovjN8Hs4pP+Ay5yuk81OfM=' 'sha256-tHd4qJ0R/vQfI0CbRTiL3XGSi+Tun7VhOcDbx08aLKA=' 'sha256-xEIumBm9hib706cHxKRcWJ5xUwqNwJIdRC/4mVeA9hE='; style-src 'sha256-r/Q5i2Sd5QikgAA6/nyuQri8Ama1Vtf9O7bac1yrHdQ='; img-src 'self' data:; connect-src 'none'; form-action 'none'; base-uri 'none'">
 <title>A Naval Gazette Entry for Lieutenant Otani Tsune (大谷恒) | Takuya Nemoto</title>
-<meta name="description" content="Transcribes a single investiture entry for an Imperial Japanese Navy lieutenant from a gazette held by JACAR, and separates what the document establishes from what it does not.">
+<meta name="description" content="Transcribes a single investiture entry for an Imperial Japanese Navy lieutenant from a gazette held by the National Institute for Defense Studies (Ministry of Defense) and published by JACAR (Ref. C12070491000), and separates what the document establishes from what it does not.">
 <meta name="robots" content="index, follow">
 <meta property="og:title" content="A Naval Gazette Entry for Lieutenant Otani Tsune (大谷恒) | Takuya Nemoto">
-<meta property="og:description" content="Transcribes a single investiture entry for an Imperial Japanese Navy lieutenant from a gazette held by JACAR, and separates what the document establishes from what it does not.">
+<meta property="og:description" content="Transcribes a single investiture entry for an Imperial Japanese Navy lieutenant from a gazette held by the National Institute for Defense Studies (Ministry of Defense) and published by JACAR (Ref. C12070491000), and separates what the document establishes from what it does not.">
 <meta property="og:type" content="article">
 <meta property="og:url" content="https://cpsbvbng26-dotcom.vercel.app/papers/naval-gazette-otani-tsune.en.html">
 <link rel="canonical" href="https://cpsbvbng26-dotcom.vercel.app/papers/naval-gazette-otani-tsune.en.html">
@@ -28,7 +28,7 @@
       "@id": "https://doi.org/10.5281/zenodo.22055709",
       "name": "A Naval Gazette Entry for Lieutenant Otani Tsune (大谷恒): A Note on the Investiture List of 11 September 1943 in the Naval Gazette (Internal Circulation Only), Extra Edition",
       "headline": "A Naval Gazette Entry for Lieutenant Otani Tsune (大谷恒)",
-      "abstract": "Transcribes a single investiture entry for an Imperial Japanese Navy lieutenant from a gazette held by JACAR, and separates what the document establishes from what it does not.",
+      "abstract": "Transcribes a single investiture entry for an Imperial Japanese Navy lieutenant from a gazette held by the National Institute for Defense Studies (Ministry of Defense) and published by JACAR (Ref. C12070491000), and separates what the document establishes from what it does not.",
       "inLanguage": "en",
       "identifier": [
         {
@@ -774,7 +774,7 @@ footer { border-top: 1px solid var(--line); margin-top: 2rem; }
     <p class="ident reveal"><span class="label">DOI</span><a href="https://doi.org/10.5281/zenodo.22055709" target="_blank" rel="noopener">10.5281/zenodo.22055709</a></p>
     <p class="ident reveal"><span class="label">ORCID</span><a href="https://orcid.org/0009-0000-1406-0547" target="_blank" rel="noopener">0009-0000-1406-0547</a></p>
     <p class="ident reveal"><span class="label">Version</span>August 2026</p>
-    <p class="lead reveal">Transcribes a single investiture entry for an Imperial Japanese Navy lieutenant from a gazette held by JACAR, and separates what the document establishes from what it does not.</p>
+    <p class="lead reveal">Transcribes a single investiture entry for an Imperial Japanese Navy lieutenant from a gazette held by the National Institute for Defense Studies (Ministry of Defense) and published by JACAR (Ref. C12070491000), and separates what the document establishes from what it does not.</p>
   </section>
 
   <hr class="rule">

diff --git a/papers/naval-gazette-otani-tsune.html b/papers/naval-gazette-otani-tsune.html
@@ -3,7 +3,7 @@
 <head>
 <meta charset="UTF-8">
 <meta name="viewport" content="width=device-width, initial-scale=1.0">
-<meta http-equiv="Content-Security-Policy" content="default-src 'none'; script-src 'self' 'sha256-JLKPfos/6SSb1kRTyMp+tphZL2OJOoHka0rrAaCHsE0=' 'sha256-tHd4qJ0R/vQfI0CbRTiL3XGSi+Tun7VhOcDbx08aLKA=' 'sha256-xEIumBm9hib706cHxKRcWJ5xUwqNwJIdRC/4mVeA9hE='; style-src 'sha256-r/Q5i2Sd5QikgAA6/nyuQri8Ama1Vtf9O7bac1yrHdQ='; img-src 'self' data:; connect-src 'none'; form-action 'none'; base-uri 'none'">
+<meta http-equiv="Content-Security-Policy" content="default-src 'none'; script-src 'self' 'sha256-7Xx0j8Ez7j4GkCWsgMxUl5dp3lvrjLFhMgH96kYbYtY=' 'sha256-tHd4qJ0R/vQfI0CbRTiL3XGSi+Tun7VhOcDbx08aLKA=' 'sha256-xEIumBm9hib706cHxKRcWJ5xUwqNwJIdRC/4mVeA9hE='; style-src 'sha256-r/Q5i2Sd5QikgAA6/nyuQri8Ama1Vtf9O7bac1yrHdQ='; img-src 'self' data:; connect-src 'none'; form-action 'none'; base-uri 'none'">
 <title>A Naval Gazette Entry for Lieutenant Otani Tsune (大谷恒) | 根本卓哉</title>
 <meta name="description" content="アジア歴史資料センターが公開する海軍公報から、海軍大尉・大谷恒の叙勲記録一件を翻刻し、この史料で確定できることと、できないことを切り分ける史料ノートです。">
 <meta name="robots" content="index, follow">
@@ -28,7 +28,7 @@
       "@id": "https://doi.org/10.5281/zenodo.22055709",
       "name": "A Naval Gazette Entry for Lieutenant Otani Tsune (大谷恒): A Note on the Investiture List of 11 September 1943 in the Naval Gazette (Internal Circulation Only), Extra Edition",
       "headline": "A Naval Gazette Entry for Lieutenant Otani Tsune (大谷恒)",
-      "abstract": "Transcribes a single investiture entry for an Imperial Japanese Navy lieutenant from a gazette held by JACAR, and separates what the document establishes from what it does not.",
+      "abstract": "Transcribes a single investiture entry for an Imperial Japanese Navy lieutenant from a gazette held by the National Institute for Defense Studies (Ministry of Defense) and published by JACAR (Ref. C12070491000), and separates what the document establishes from what it does not.",
       "inLanguage": "en",
       "identifier": [
         {

diff --git a/notes/index.en.html b/notes/index.en.html
@@ -957,7 +957,7 @@ footer { border-top: 1px solid var(--line); margin-top: 2rem; }
           <span class="code">PREPRINT</span>
           <h3>A Naval Gazette Entry for Lieutenant Otani Tsune（大谷恒）</h3>
           <p class="alt">A Note on the Investiture List of 11 September 1943 in the Naval Gazette (Internal Circulation Only), Extra Edition</p>
-          <p class="issuer">Transcribes a single investiture entry for an Imperial Japanese Navy lieutenant from a gazette held by JACAR, and separates what the document establishes from what it does not.</p>
+          <p class="issuer">Transcribes a single investiture entry for an Imperial Japanese Navy lieutenant from a gazette held by the National Institute for Defense Studies (Ministry of Defense) and published by JACAR (Ref. C12070491000), and separates what the document establishes from what it does not.</p>
           <p class="doi">DOI 10.5281/zenodo.22055709</p>
           <span class="verify">Read on Zenodo</span>
         </a>
